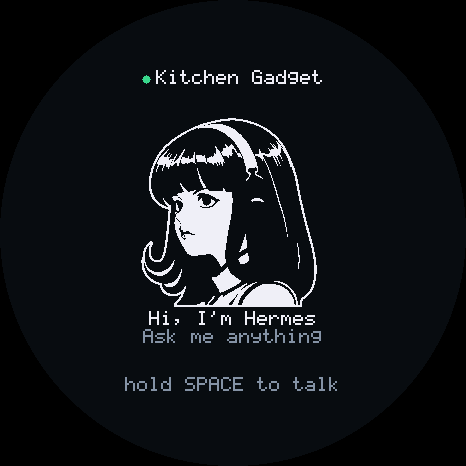
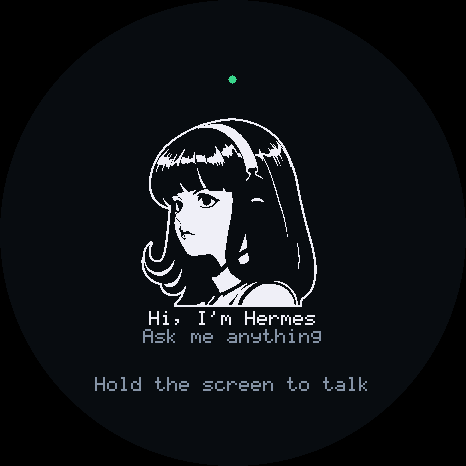
Round faces show only the status dot; README screenshots use the default name

Changed region(s): [[0.1803, 0.8112, 0.7811, 0.8412], [0.3004, 0.1502, 0.5107, 0.1803], [0.5408, 0.1502, 0.691, 0.1803]]

diff --git a/firmware/core/src/ui.cpp b/firmware/core/src/ui.cpp
@@ -267,12 +267,9 @@ void Ui::draw_top(Canvas& c, const UiModel& m) {
   }
   int ty = s;
   if (panel_.round) {
-    // A round face has no corners: the link dot and the name, centred.
+    // A round face stays quiet: just the link dot, centred, like a watch's status mark.
     int r = std::max(2, 3 * s / 2 + 1);
-    std::string title = fit(m.title, cols_for(w - 6 * s - 2 * r, s));
-    int x = (w - (2 * r + 3 * s + Canvas::text_width(title, s))) / 2;
-    c.fill_circle(x + r, layout_.top_h / 2, r, dot);
-    c.text(x + 2 * r + 3 * s, ty, title, s, kText);
+    c.fill_circle(w / 2, layout_.top_h / 2, r, dot);
     return;
   }
   int label_w = Canvas::text_width(label, s);

diff --git a/tools/capture_window.py b/tools/capture_window.py
@@ -209,7 +209,7 @@ def main() -> None:
         return None
 
     hub.delegate.on_utterance = quiet
-    sim = Simulator(url=f"ws://127.0.0.1:{hub.bound_port}/gadget", state_dir=state / "dev", name="Kitchen Gadget",
+    sim = Simulator(url=f"ws://127.0.0.1:{hub.bound_port}/gadget", state_dir=state / "dev", name="Hermes Gadget",
                     board=args.board)
     win = Recorder(sim, hub, loop, args.zoom, Path(args.frames) if args.frames else None)
     win.root.after(500, win.advance)
